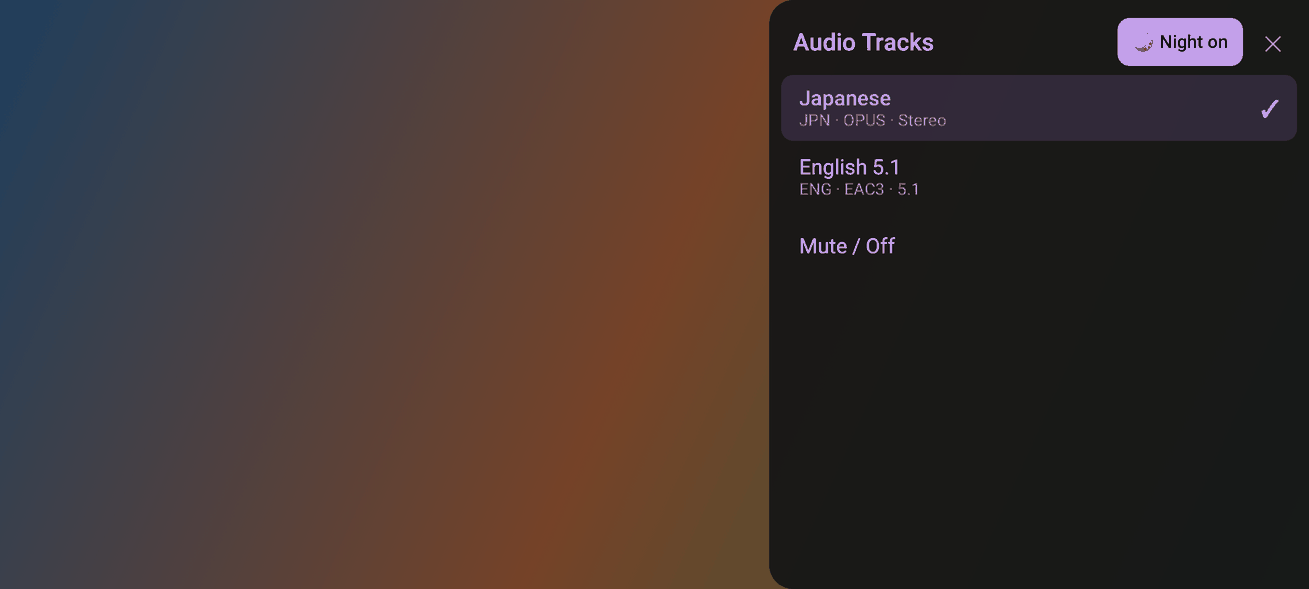
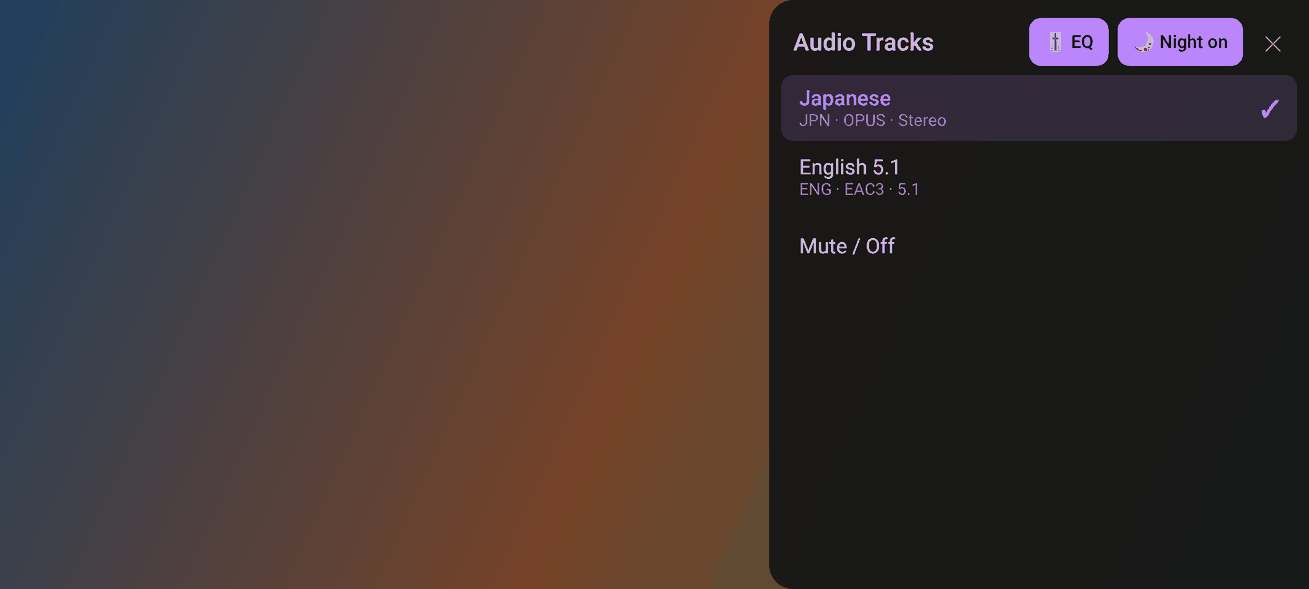
Docs: P11-10 to P11-13, refreshed panel screenshots, casting decision
TASKS and PROGRESS entries with the device checks still to do, the
CHANGELOG Unreleased section, current panel and browser screenshots in
docs/screenshots/panels, and the ROADMAP note on why casting stays a
non-goal.

Claude-Session: https://claude.ai/code/session_01PYWonGPXYuoNuvyidgnRsM

diff --git a/PROGRESS.md b/PROGRESS.md
@@ -147,6 +147,10 @@ Latest stable, looked up from official sources during P0 (AGENT_RULES.md, Depend
 | P11-07 | Browser search | IN PROGRESS | CLAUDE-CLOUD | 1361c2d | 2026-10-20, cloud session, no phone. Code done; `:app:compileDebugKotlin`, `:player:testDebugUnitTest`, `:app:testDebugUnitTest` pass. VideoSearchTest (3). Left: the device acceptance in TASKS.md. |
 | P11-08 | Compact player panels, portrait top bar | IN PROGRESS | CLAUDE-CLOUD | 1192625 | 2026-10-20, cloud, no phone. Builds; titles, ✓ and test tags unchanged for devcheck and the baseline profile generator. Left: device acceptance (`tools/phone_check.sh`). |
 | P11-09 | Effect apps (ViPER4Android) see playback | IN PROGRESS | CLAUDE-CLOUD | c5e5b05 | 2026-10-20, cloud, no phone. mpv 0.41 `audiotrack-session-id` (ao_audiotrack.c) defaulted to 0, so every AudioTrack got a new random session no effect app could find. Left: device acceptance. |
+| P11-10 | Picture adjustments | IN PROGRESS | CLAUDE-CLOUD | 91a640a | 2026-10-20, cloud, no phone. Builds, unit tests pass, panels checked in Robolectric screenshots (docs/screenshots/panels). PictureAdjustTest. Left: device acceptance in TASKS.md. |
+| P11-11 | Subtitle text style | IN PROGRESS | CLAUDE-CLOUD | 4e3cd82 | 2026-10-20, cloud, no phone. Builds, unit tests pass, panels checked in Robolectric screenshots (docs/screenshots/panels). SubtitleSyncTest (2 new); option names and defaults from mpv 0.41 sub/osd.c. Left: device acceptance in TASKS.md. |
+| P11-12 | Equalizer | IN PROGRESS | CLAUDE-CLOUD | 1afe74d | 2026-10-20, cloud, no phone. Builds, unit tests pass, panels checked in Robolectric screenshots (docs/screenshots/panels). AudioFiltersTest (6). Left: device acceptance in TASKS.md. |
+| P11-13 | Browser extras | IN PROGRESS | CLAUDE-CLOUD | see git log (P11-13) | 2026-10-20, cloud, no phone. Builds, unit tests pass, panels checked in Robolectric screenshots (docs/screenshots/panels). WatchProgressTest, VideoSearchTest (ranking), BrowserScreenshotTest. Left: device acceptance in TASKS.md. |
 | STAB-01 | Stability audit | DONE | CLAUDE-STAB | pending | Audit of lifecycle, threading, JNI, Room, DataStore, MediaStore, and lint. Hardened mpv_jni.c NULL/exception checks; verified Room migrations 1..5 in DatabaseMigrationTest; added DataStore corruption handler and catch for IOExceptions; added MediaStore SecurityException & missing column guards; moved container-fps read off mpv event thread; gated callbacks on !released; cancelled vulkan/gles checks and scope in PlayerEngine.release(); managed service observation coroutines in PlayerViewModel; resolved 42 lint errors (:app:lintDebug clean); noted ThumbnailEngine native extractor hr-seek=no keyframe limitation for reviewer. |
 
 

diff --git a/TASKS.md b/TASKS.md
@@ -794,3 +794,20 @@ existing track_memory and speed checks still pass; the portrait bar does not ove
 (`audiotrack-session-id`) and announced with ACTION_OPEN_AUDIO_EFFECT_CONTROL_SESSION (CLOSE on service end).
 *Accept*: `p11_audio_session` passes; with ViPER4Android installed its effects are audible on Vibe Player.
 
+**P11-10 Picture adjustments** — brightness, contrast, saturation, gamma (-100..100) in the More panel, live while
+dragging, saved on release, applied to every file and a new handle (mpv video equalizer; GPU renderer paths).
+*Accept*: each slider visibly changes the picture on H.264 (Efficient) and AV1 (Quality); Reset restores it;
+values survive the next file and a quality toggle.
+
+**P11-11 Subtitle text style** — Settings: colour, outline (none / thin / normal = mpv 1.65 / thick), background box
+(`sub-border-style=background-box`), bold, for plain-text subtitles; ASS untouched unless Override ASS style.
+*Accept*: an SRT shows the chosen colour, outline, box and bold; Bocchi's ASS looks unchanged.
+
+**P11-12 Equalizer** — 🎚 EQ chip in the audio panel: on/off, presets, 10 bands 31 Hz to 16 kHz, -12..+12 dB
+(FFmpeg equalizer in the af chain before night mode, pre-cut by the largest boost). *Accept*: Bass boost is
+audibly stronger in the bass without clipping; the mpv log shows the af change with no error; survives the next file.
+
+**P11-13 Browser extras** — folder name in search results, ✓ badge for watched files (WatchProgress, the resume
+rule), results ranked prefix / phrase / rest. *Accept*: a finished episode shows ✓ in the folder and search;
+"bocchi the rock" lists names that start with it first.
+

diff --git a/CHANGELOG.md b/CHANGELOG.md
@@ -25,6 +25,11 @@ Built without the phone; every item still needs its device check (PROGRESS.md).
 - **Compact panels (P11-08)**: audio, subtitles, speed, sync, chapters and More open as a side panel in
   landscape, so the video stays visible; smaller popups; the portrait top bar fits.
 - **ViPER4Android and equalizer apps (P11-09)** can attach to the player's audio.
+- **Picture adjustments (P11-10)**: brightness, contrast, saturation and gamma in the More panel.
+- **Subtitle text style (P11-11)**: colour, outline, background box and bold for SRT and other plain subtitles.
+- **Equalizer (P11-12)**: 10 bands with presets (Flat, Bass boost, Voice, Treble, Loudness).
+- **Browser (P11-13)**: folder name in search results, a ✓ on watched videos, best matches first.
+- **Screenshot tests**: the player panels and browser rows render on the JVM (Robolectric, Roborazzi).
 
 ### Fixed
 - **Anime4K on OpenGL ES (P8-02)**: the de-ring pass is rewritten so it can compile on the Adreno driver (device

diff --git a/docs/ROADMAP.md b/docs/ROADMAP.md
@@ -56,6 +56,12 @@ Source of truth for task status is `PROGRESS.md` and `TASKS.md`; this is a summa
 
 minSdk stays 37 (Android 17): the app is built for one phone and one OS version and uses Android 17 APIs.
 
+Casting (Chromecast, DLNA) stays a non-goal (SPEC.md), decided with the owner 2026-10-20: on a TV the TV decodes
+and renders, so styled ASS, the shaders and the tuned decoding do not apply; the Google Cast library is closed
+source, which clashes with the GPL build; and the app cannot transcode (encoders are disabled). For the TV, use
+Android's screen cast (mirrors the player as it looks, ASS and shaders included). DLNA "send to TV" would be the
+clean option if ever wanted, for files the TV plays itself.
+
 
 - An LGPL build option without GPL-only FFmpeg components.
 - Testing on more devices, and hardware AV1 decode where available.
